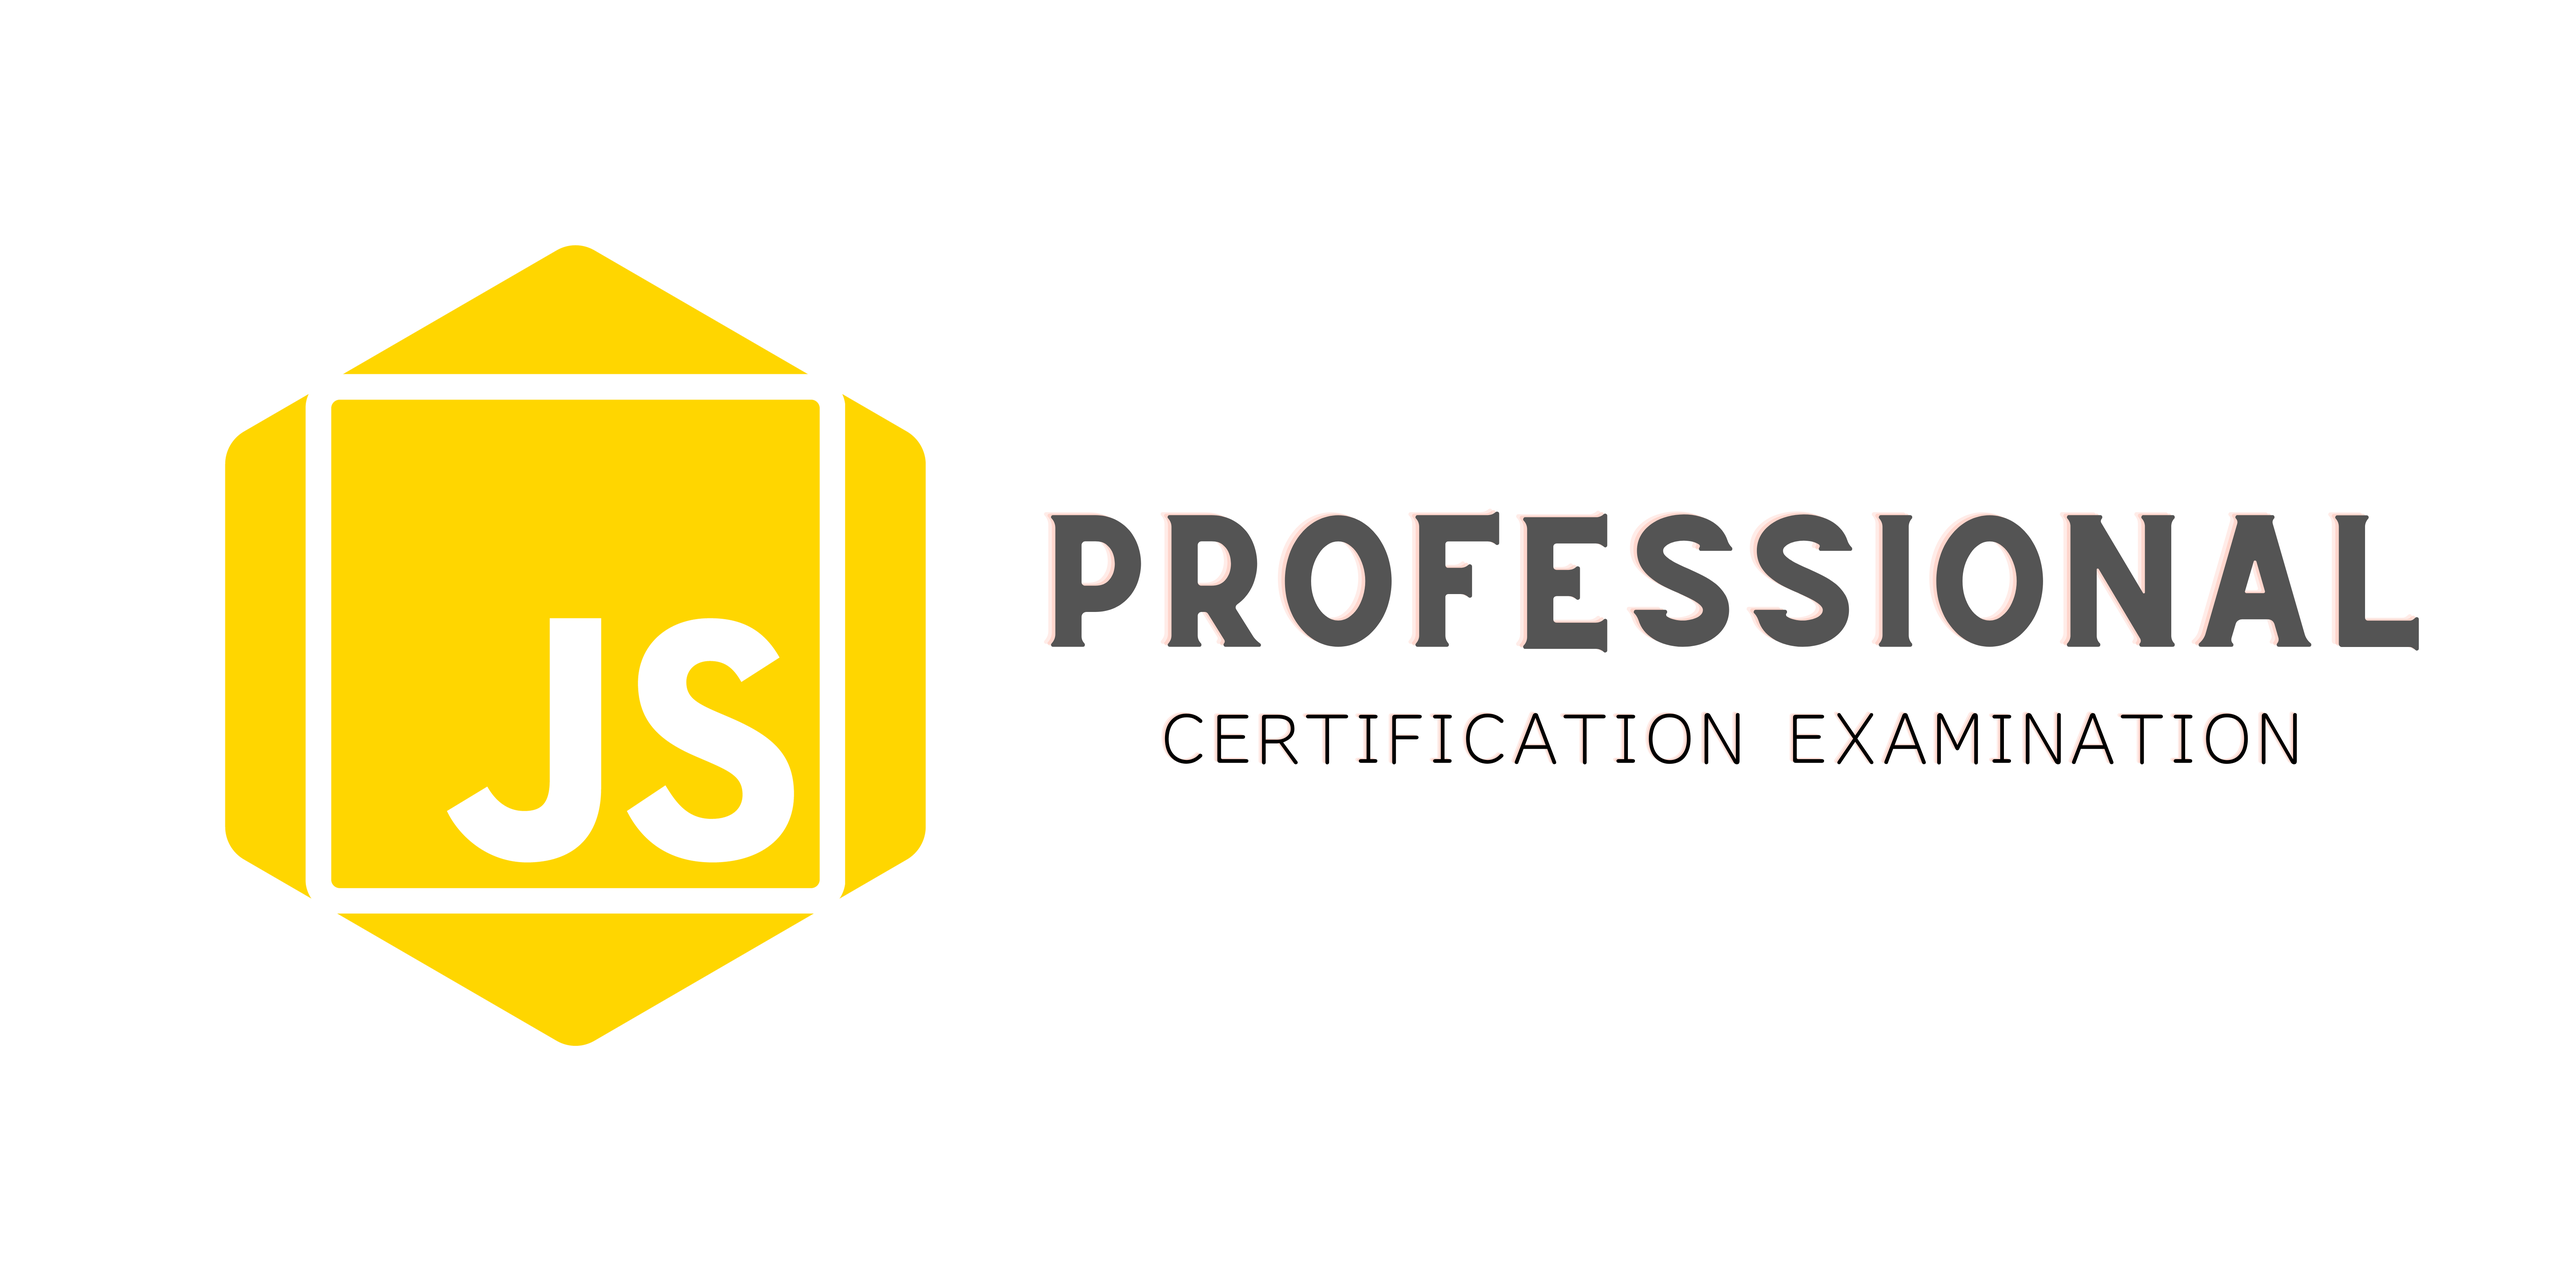
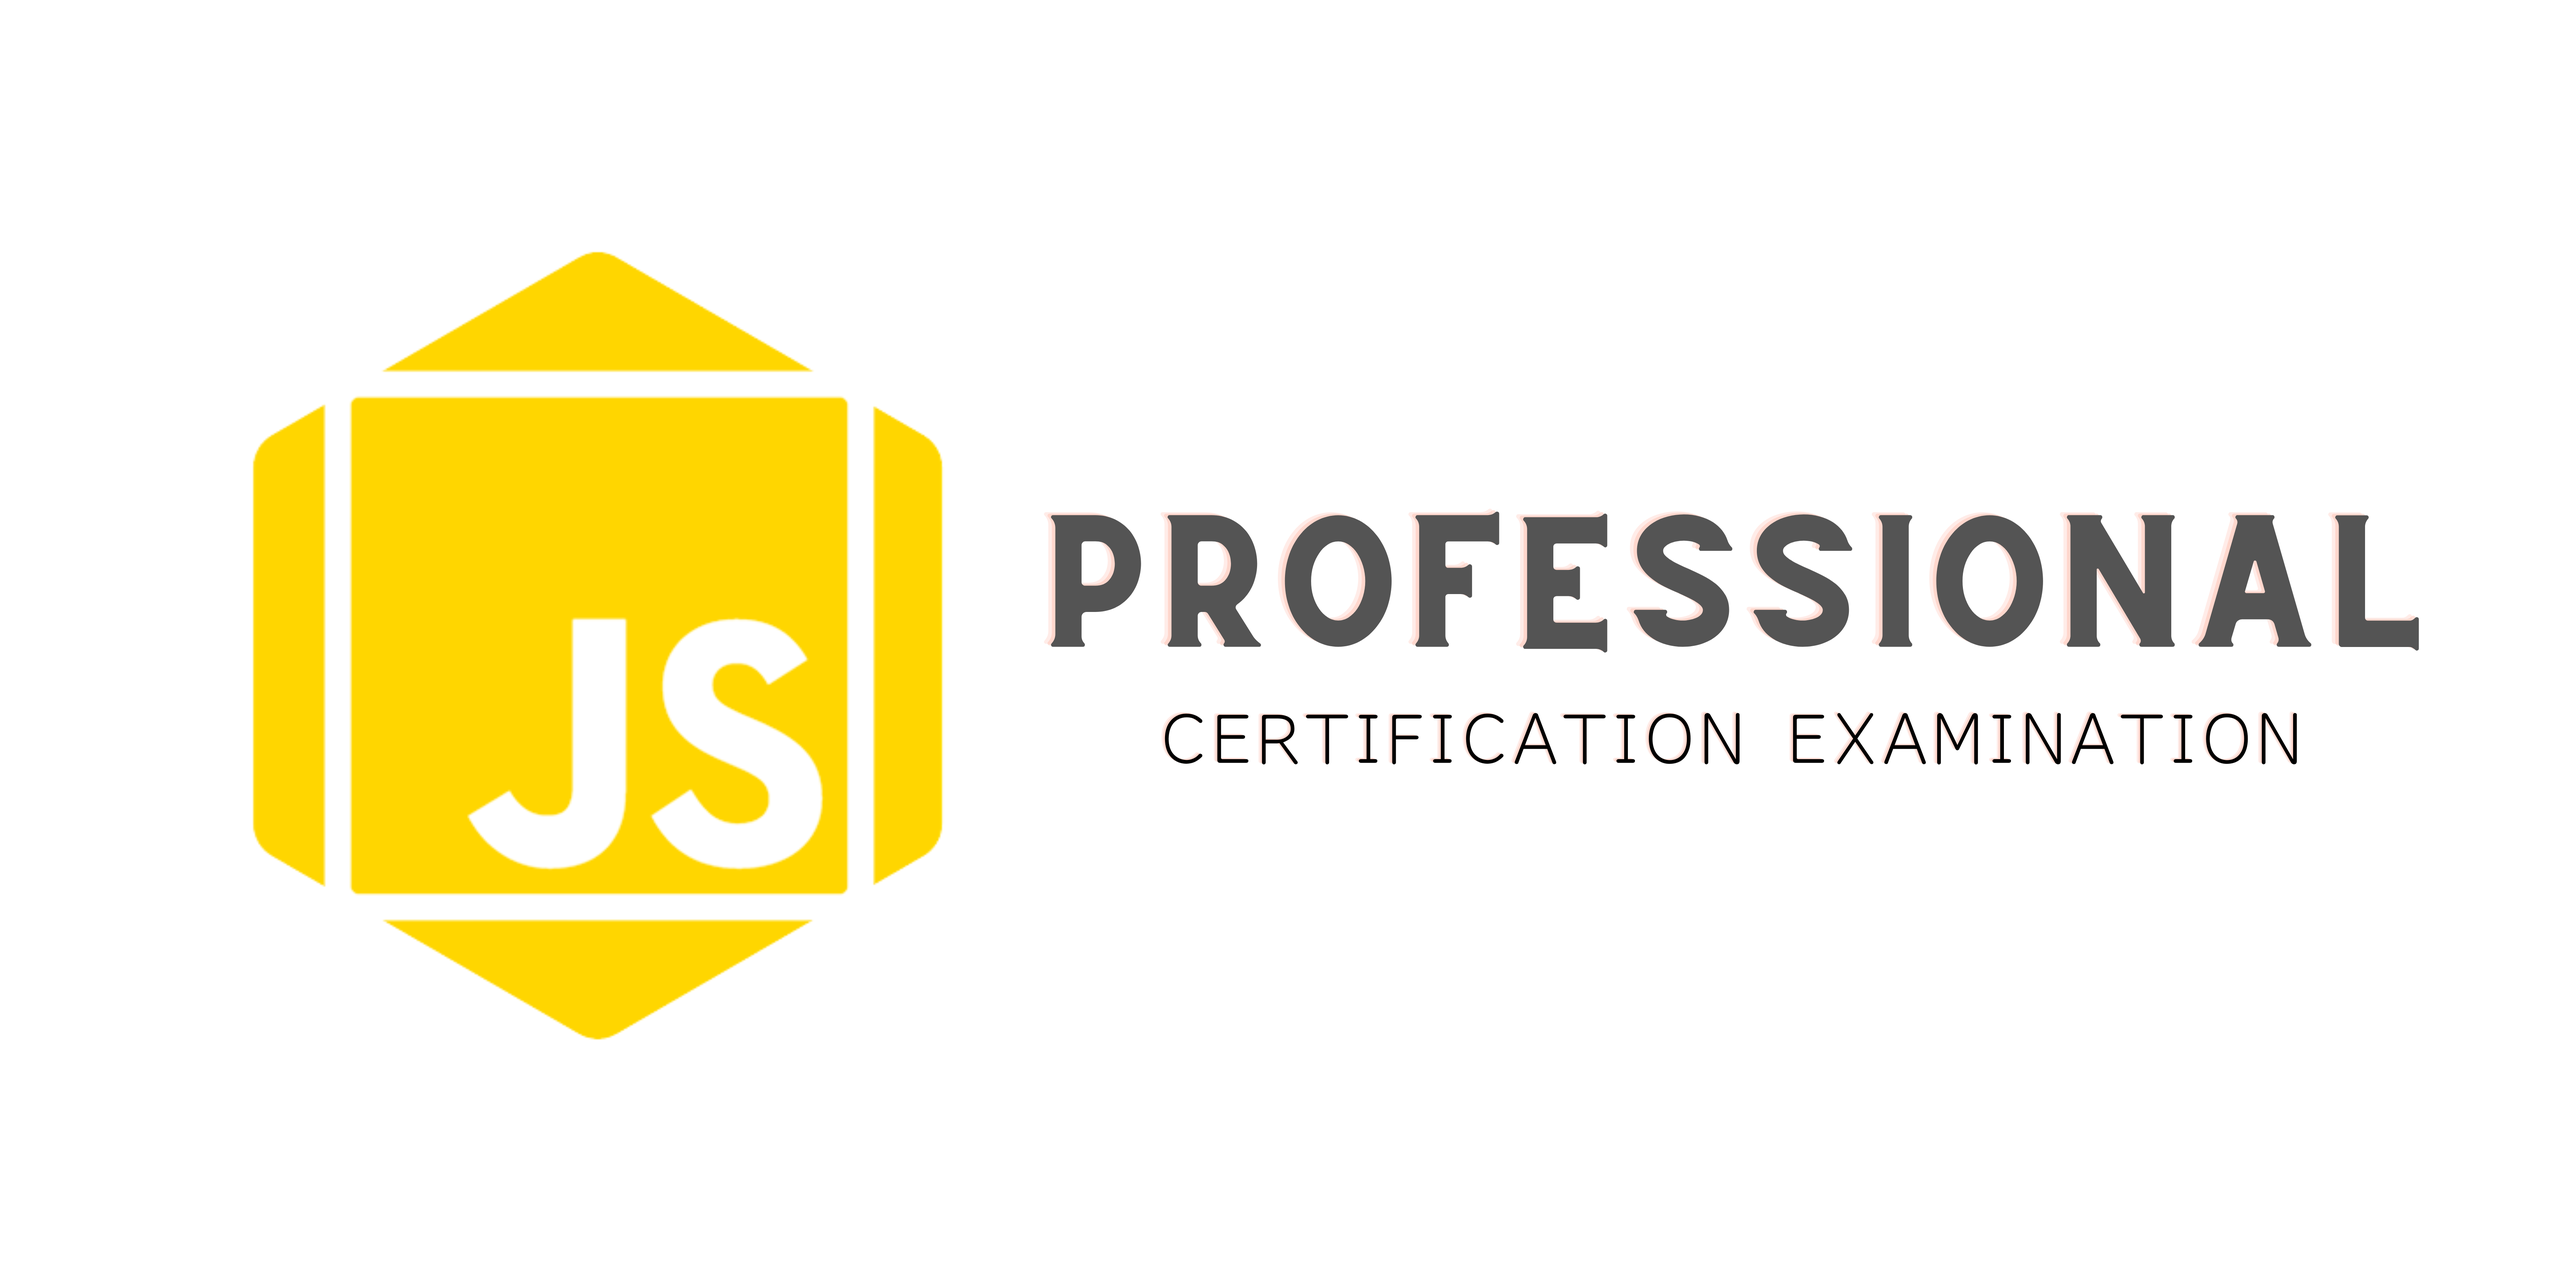
remove bg

Changed region(s): [[0.0625, 0.1875, 0.375, 0.8125], [0.25, 0.75, 0.2812, 0.7812], [0.25, 0.2188, 0.2812, 0.25]]

diff --git a/README.md b/README.md
@@ -24,4 +24,4 @@ C. 2 questions to determine what the code is for (5 points each)
 ## Assets
 
 ### Logo
-![Logo](/assets/JSPCE.svg)
+![Logo](/assets/JSPCE.png)
